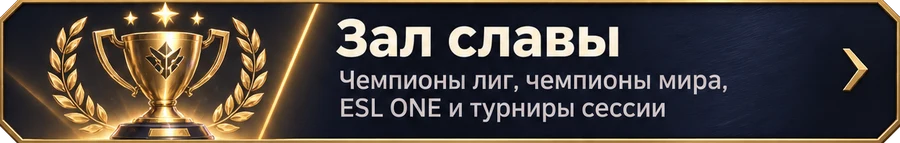
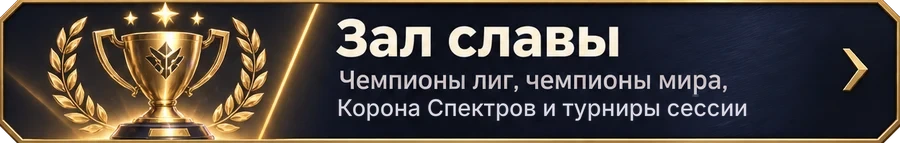
ESL ONE заменён на «Корону Спектров», логотипы — заглушки
Claude-Session: https://claude.ai/code/session_01BdoBrB8cx4HivwSUnJtpct

Changed region(s): [[0.3733, 0.6713, 0.84, 0.8671]]

diff --git a/index.html b/index.html
@@ -1321,7 +1321,7 @@ function fixHero(v) {   // старые сохранения героя
 }
 function loadGame(mode) {
   try {
-    const v = JSON.parse((localStorage.getItem(SKEY[mode]) || 'null').replace(/"(name|n|nick)":"120"/g, '"$1":"eer0120"'));   // боец 120 переименован в eer0120
+    const v = JSON.parse((localStorage.getItem(SKEY[mode]) || 'null').replace(/"(name|n|nick)":"120"/g, '"$1":"eer0120"').replace(/ESL ONE/g, 'Корона Спектров'));   // боец 120 переименован в eer0120
     if (!v) return null;
     if (v.v === 2 && v.nick) return { v: 3, mode: 'solo', players: [fixHero(v)], cur: 0, handoff: false };   // одиночная карьера до совместной игры
     if (v.v !== 3 || !v.players || !v.players.length) return null;
@@ -1549,7 +1549,7 @@ function ivQuestions(H) {
     last ? `Твой недавний бой с ${last} обсуждают до сих пор. Чем он запомнился?` : 'Какой соперник запомнился тебе больше всего?',
     'Кого из соперников ты считаешь самым неудобным?',
     `Идёт ${seasonNo()}-й сезон. Какую цель ставишь до его конца?`,
-    'Впереди ESL ONE. Готовишься бороться за очки рейтинга?',
+    'Впереди Корона Спектров. Готовишься бороться за очки рейтинга?',
     'Чемпионат мира в этом сезоне — мечта или реальная цель?',
     'Говорят, в Бюро скоро объявят новый турнир. Будешь участвовать?',
     team ? `Ты выступаешь за ${team.name}. Как тебе в команде?` : 'Ты пока свободный агент. За какую команду хочешь выступать?',
@@ -1989,7 +1989,7 @@ function bureauFight(kind) {
 }
 
 
-// ---------- ESL ONE: с силы 50, свой состав — Элитные Спектры любого региона, игроки, добор сгенерированными (сила ≤50) ----------
+// ---------- Корона Спектров (бывш. ESL ONE): с силы 50, свой состав — Элитные Спектры любого региона, игроки, добор сгенерированными (сила ≤50) ----------
 const ESL_MIN_POWER = 50, ESL_SIZES = { 8: 'se8', 12: 'g12', 16: 'g16', 20: 'sw20' };
 const eslElite = key => { const [r, k] = key.split(':').map(Number); return Object.assign({ r }, lgPool(r)[k]); };
 function eslNew() { S.esl = { size: 8, pick: [], inv: [], gen: [] }; }
@@ -2005,7 +2005,7 @@ function eslFill() {   // добрать сгенерированными — к
 function eslStart() {
   const E = S.esl; if (!E || eslCount() !== E.size) return;
   const cost = 1 + (E.inv.length ? 1 : 0);
-  if (S.actions < cost) { logMsg('Не хватает действий для ESL ONE.'); return; }
+  if (S.actions < cost) { logMsg('Не хватает действий для Короны Спектров.'); return; }
   S.actions -= cost;
   const hums = [G.cur, ...E.inv.filter(h => G.players[h] && G.players[h].region === S.region)];
   const bots = E.pick.map(eslElite).concat(E.gen);
@@ -2018,8 +2018,8 @@ function viewEsl() {
   if (!S.esl) eslNew();
   const E = S.esl, n = eslCount(), full = n === E.size, over = n > E.size;
   const here = G.players.map((H, i) => i).filter(i => i !== G.cur && G.players[i].region === S.region);
-  let h = `<div class="card"><img class="esllogo" src="img/esl.webp" alt="ESL ONE"><h2>ESL ONE</h2>
-    <div class="dim">Собери свой турнир: позови Элитных Спектров любого региона и игроков, остальное можно добрать бойцами с силой до 50. Турнир — 1 действие${here.length ? ', позвать игроков — ещё 1' : ''}. Победитель получает медаль ESL ONE и +200 рейтинга.</div>${prizeRulesHtml({ kind: 'esl' })}</div>
+  let h = `<div class="card"><img class="esllogo" src="img/crown.webp" alt="Корона Спектров"><h2>Корона Спектров</h2>
+    <div class="dim">Собери свой турнир: позови Элитных Спектров любого региона и игроков, остальное можно добрать бойцами с силой до 50. Турнир — 1 действие${here.length ? ', позвать игроков — ещё 1' : ''}. Победитель получает медаль Короны Спектров и +200 рейтинга.</div>${prizeRulesHtml({ kind: 'esl' })}</div>
     <div class="card"><h3>Размер турнира</h3><div class="row" style="flex-wrap:nowrap">${Object.keys(ESL_SIZES).map(k => `<button class="btn ${+k === E.size ? 'here' : ''}" style="text-align:center;margin-top:0" data-a="eslsize" data-v="${k}">${k}</button>`).join('')}</div>
       <div style="margin-top:8px">Участников: <b class="${over ? 'minus' : full ? 'plus' : ''}">${n} из ${E.size}</b>${over ? ' — убери лишних' : ''}</div>
       <div class="row" style="flex-wrap:nowrap"><button class="btn" data-a="eslfill" style="text-align:center" ${n >= E.size ? 'disabled' : ''}>Дозаполнить</button><button class="btn gold" data-a="eslgo" style="text-align:center" ${full ? '' : 'disabled'}>Начать турнир</button></div>
@@ -2253,7 +2253,7 @@ const BREAK_WEEKS = 10;   // перерыв после чемпионата ми
 const newSeason = (r, week, prev, brk) => ({ r, season: prev ? prev.season + 1 : 1, phase: 'draft', draftEnd: week + (brk || DRAFT_WEEKS) - 1, teams: null, M: [], sched: null, ri: 0, left: 0, champ: null, worlds: [] });
 const ensureLeagues = () => { if (!G.week) G.week = 1; if (!G.leagues) G.leagues = REGIONS.map((_, r) => newSeason(r, 1)); ensureFame(); };
 // ---------- зал славы: общий для всех игроков сессии ----------
-// чемпионы лиг (на старте — случайные Элитные Спектры), 3 последних чемпиона мира, 5 последних ESL ONE, все турниры сессии
+// чемпионы лиг (на старте — случайные Элитные Спектры), 3 последних чемпиона мира, 5 последних Корон Спектров, все турниры сессии
 function fameEntry(name, face, country, team, extra) { return Object.assign({ name, face, country: country || null, team: team || null, week: G.week || 1 }, extra || {}); }
 function ensureFame() {
   if (G.fame) return;
@@ -3038,11 +3038,11 @@ function finishTour() {
   }
   { ensureFame(); const x = R.ps[R.winner], h = humOf(R, R.winner), H = h != null ? G.players[h] : null;
     const team = x.team != null && SEMI[x.team] ? { name: SEMI[x.team][0], logo: SEMI[x.team][1] } : R.kind === 'contract' && H ? { name: SEMI[R.team][0], logo: SEMI[R.team][1] } : null;
-    const nm = R.kind === 'fest' ? 'Фестиваль Спектров' : R.kind === 'esl' ? 'ESL ONE' : R.kind === 'dh' ? 'Метеор Фест' : R.kind === 'contract' ? 'Турнир по контракту' : TIERS[R.tier].name;
+    const nm = R.kind === 'fest' ? 'Фестиваль Спектров' : R.kind === 'esl' ? 'Корона Спектров' : R.kind === 'dh' ? 'Метеор Фест' : R.kind === 'contract' ? 'Турнир по контракту' : TIERS[R.tier].name;
     const e = fameEntry(H ? H.nick : x.name, H ? H.face : x.face, H ? H.country : x.country, team, { r: R.region, season: fameSeason(), hum: !!H, t: nm });
     if (R.kind === 'esl') { G.fame.esl.unshift(e); G.fame.esl = G.fame.esl.slice(0, 5); }
     G.fame.tours.unshift(e); G.fame.tours = G.fame.tours.slice(0, 30); }
-  const T = R.kind === 'fest' ? { name: 'Фестиваль Спектров · ' + R.city, gain: 0 } : R.kind === 'esl' ? { name: 'ESL ONE', gain: 0 } : R.kind === 'contract' ? { name: 'Турнир по контракту · ' + SEMI_TEAMS[R.team], gain: 0 } : R.kind === 'dh' ? { name: 'Метеор Фест' + (R.city ? ' · ' + R.city : ''), gain: 0 } : TIERS[R.tier], r = R.region, champ = R.ps[R.winner].name;
+  const T = R.kind === 'fest' ? { name: 'Фестиваль Спектров · ' + R.city, gain: 0 } : R.kind === 'esl' ? { name: 'Корона Спектров', gain: 0 } : R.kind === 'contract' ? { name: 'Турнир по контракту · ' + SEMI_TEAMS[R.team], gain: 0 } : R.kind === 'dh' ? { name: 'Метеор Фест' + (R.city ? ' · ' + R.city : ''), gain: 0 } : TIERS[R.tier], r = R.region, champ = R.ps[R.winner].name;
   for (const x of R.ps) {   // награды и история — каждому живому участнику
     const h = humOf(R, x.id); if (h == null) continue;
     const H = G.players[h];
@@ -3058,7 +3058,7 @@ function finishTour() {
         : awardTrophy(H, r, T.name);
       if (tr === 'dh') msg += ' Ты достиг вершины силы!';
       msg += ' ' + payPrize(R, x, H, 'W');
-      msg += tr === 'contract' ? '' : tr === 'esl' ? ` +200 рейтинга и медаль ESL ONE (всего ×${H.eslWins}).` : tr === 'new' ? ' Кубок в коллекции!' : tr === 'locked' ? ' Кубки можно собирать, когда прокачка завершена.' : '';
+      msg += tr === 'contract' ? '' : tr === 'esl' ? ` +200 рейтинга и медаль Короны Спектров (всего ×${H.eslWins}).` : tr === 'new' ? ' Кубок в коллекции!' : tr === 'locked' ? ' Кубки можно собирать, когда прокачка завершена.' : '';
       histTo(H, r, T.name + ' · победа'); logTo(H, msg);
     } else { histTo(H, r, T.name + ' · ' + placeText(R, x.id));
       const o = R.outs && R.outs[x.id];
@@ -3108,7 +3108,7 @@ const topBar = () => {   // шапка по макету: портрет, ник
 
 // строка раздела под шапкой: стрелка назад и название экрана (заменяет нижние кнопки «Назад»)
 const VIEW_TITLE = { club: ['Бойцовский клуб', 'back'], card: ['Действие', 'back'], cardres: ['Итог', 'cardback'], more: ['Ещё', 'back'], coll: ['Коллекция', 'more'], cup: ['Трофей', 'coll'], fame: ['Зал славы', 'fameback'], lib: ['Библиотека', 'back'], dossier: ['Досье Элитных Спектров', 'back'], teams: ['Команды лиг', 'back'], rest: ['Отдых', 'back'],
-  bureau: ['Бюро', 'back'], tour: ['Турниры', 'toBureau'], esl: ['ESL ONE', 'toBureau'], wc: ['Wild Card', 'toBureau'], wf: ['Чемпионат мира', 'toBureau'],
+  bureau: ['Бюро', 'back'], tour: ['Турниры', 'toBureau'], esl: ['Корона Спектров', 'toBureau'], wc: ['Wild Card', 'toBureau'], wf: ['Чемпионат мира', 'toBureau'],
   ltable: ['Таблица лиги', 'lback'], lhist: ['История лиги', 'lback'], flight: ['Перелёт', 'back'], shop: ['Магазин', 'back'], inv: ['Инвентарь', 'more'], weeks: ['История недель', 'more'] };
 const subBar = () => { const t = VIEW_TITLE[S.view]; return t ? `<div class="sub"><button class="subback" data-a="${t[1]}" aria-label="Назад">←</button><h1>${t[0]}</h1></div>` : ''; };
 const labelOf = c => {
@@ -3132,7 +3132,7 @@ const trophiesHtml = () => {   // коллекция: трофеи лиг кар
   const names = [...TIERS.map(t => t.name), 'Кубок лиги'], lbl = [...TIER_SHORT, 'Лига'];
   const big = [S.wfWon ? `<div class="ctro big" data-a="cupview" style="cursor:pointer">${wfCup(S)}<span>Чемпион мира${S.wfWon > 1 ? ' ×' + S.wfWon : ''}</span></div>` : '',
     S.wcWon ? `<div class="ctro big"><img src="img/trophy/wc.webp" alt=""><span>Wild Card${S.wcWon > 1 ? ' ×' + S.wcWon : ''}</span></div>` : '',
-    S.eslWins ? `<div class="ctro big"><img class="esl" src="img/esl.webp" alt=""><span>ESL ONE ×${S.eslWins}</span></div>` : '',
+    S.eslWins ? `<div class="ctro big"><img class="esl" src="img/crown.webp" alt=""><span>Корона Спектров ×${S.eslWins}</span></div>` : '',
     ...CLUB.map((B, k) => S.beltsWon && S.beltsWon[k] ? `<div class="ctro big"><img src="img/trophy/belt_${k}.webp" alt="" onerror="this.replaceWith(Object.assign(document.createElement('span'),{className:'beltph',textContent:'Пояс'}))"><span>${B.n}${S.beltsWon[k] > 1 ? ' ×' + S.beltsWon[k] : ''}</span></div>` : '')].join('');
   const regs = REGIONS.map((R, r) => { const own = names.map((n, i) => S.troph.some(x => x.r === r && x.n === n) ? i : -1).filter(i => i >= 0);
     return own.length ? `<h3>${esc(R.name)} · ${LSHORT[r]}</h3><div class="ctrow">${own.map(i => `<div class="ctro">${TROPHY_IMG[r] ? `<img src="img/trophy/r${r}_${i}.webp" alt="">` : '<span class="trophy">🏆</span>'}<span>${lbl[i]}</span></div>`).join('')}</div>` : ''; }).join('');
@@ -3559,7 +3559,7 @@ const LIB_NOTES = [
   { t: "Борьба команд", d: "Команды сражаются за места в таблице не ради красоты. За победы корпорации платят крипту: из неё оплачиваются контракты, тренировки, переезды и экипировка. Чем выше команда, тем щедрее спонсоры." },
   { t: "Цифровая монета", d: "Крипта Спектров — цифровая монета. Её выпускает банк «Северный Альянс», а каждую сделку записывает распределённый реестр, который проверяет Бюро. Курс крипты растёт вместе со славой арены." },
   { t: "Кошелёк Спектра", d: "Рейтинг и крипта — разные вещи. Рейтинг показывает, кто сильнее: он растёт и падает от побед и поражений, его нельзя купить или потратить. Крипта — это деньги: её платят за победы, призовые места и контракты, а тратят в магазине на жильё, транспорт, артефакты и снаряжение." },
-  { t: "Призовой фонд ESL ONE", d: "ESL ONE — турнир, на котором организаторы разыгрывают очки рейтинга. Победитель получает щедрую долю общего фонда, а вместе с ней — внимание скаутов и корпораций. Поэтому за приглашение на ESL ONE Спектры готовы бороться не меньше, чем за сам титул." },
+  { t: "Призовой фонд Короны Спектров", d: "Корона Спектров — турнир, на котором организаторы разыгрывают очки рейтинга. Победитель получает щедрую долю общего фонда, а вместе с ней — внимание скаутов и корпораций. Поэтому за приглашение на Корону бойцы готовы бороться не меньше, чем за сам титул." },
   { t: "Разрыв потока", d: "Иногда, не справившись со своей силой, Спектр может потерять контроль над потоком Цы. Потеря контроля делает Спектра совершенно беззащитным. Урон от двух своих атак получает тот, у кого получилось нанести три крита подряд." },
   { t: "Veltor", img: "img/car/veltor_logo.webp", d: "Veltor — самый массовый автобренд мира Спектров. Его серебряную букву V с бирюзовой вставкой видно на каждой улице. Седан Veltor S4 — первая машина почти любого молодого Спектра: удобный, экономичный и достаточно быстрый, чтобы успеть из Бюро на арену. Бирюзовые огни на бампере светятся в цвет потока Цы." },
   { t: "Свой транспорт", d: "Спектр, который сам добирается до арены, успевает за неделю куда больше. Машина в гараже дарит одно лишнее действие каждую неделю: меньше времени в пробках и на такси — больше на тренировки, турниры и Бюро." },
@@ -3687,7 +3687,7 @@ function viewBureau() {   // слева — бюро и услуги, справ
       <div class="dim" style="margin-top:8px">Всемирная организация Спектров: турниры, поединки и рейтинговая система.</div></div>
     <div class="card"><h2>Услуги бюро</h2>
       ${[['tour', '', 's_tour', 'Местный турнир'], ['fight', 'ladder', 's_ladder', 'Лестничный матч'], ['fight', 'pro', 's_pro', 'Бой с Элитным Спектром']].map(([a, v, img, t]) => `<button class="imgbtn" data-a="${a}" ${v ? `data-v="${v}"` : ''} ${none ? 'disabled' : ''} aria-label="${t}"><img src="img/nav/${img}.webp" alt=""></button>`).join('')}${none ? '<div class="dim" style="margin-top:4px;font-size:13px">Действия на неделю закончились.</div>' : ''}
-      ${esl ? `<button class="imgbtn" data-a="esl" ${none ? 'disabled' : ''} aria-label="ESL ONE"><img src="img/nav/esl.webp" alt=""></button>` : '<div class="imgbtn locked" aria-label="ESL ONE закрыт"><img src="img/nav/s_esl_lock.webp" alt=""></div>'}
+      ${esl ? `<button class="imgbtn" data-a="esl" ${none ? 'disabled' : ''} aria-label="Корона Спектров"><img src="img/nav/crown.webp" alt=""></button>` : '<div class="imgbtn locked" aria-label="Корона Спектров закрыта"><img src="img/nav/s_crown_lock.webp" alt=""></div>'}
     </div>
     <div class="card"><button class="imgbtn" data-a="famebu" aria-label="Зал славы" style="margin-top:0"><img src="img/nav/fame.webp" alt=""></button></div></div>
     <div class="bright">${(() => { const r = S.blg != null ? S.blg : S.region; return `<div class="card blgtabs"><div class="row" style="flex-wrap:nowrap;gap:4px;margin:0">${REGIONS.map((R, i) => `<button class="blgb ${i === r ? 'on' : ''}" data-a="blg" data-v="${i}" aria-label="${LSHORT[i]}" title="${LSHORT[i]}"><img src="img/logo_${i}.webp" alt=""></button>`).join('')}</div></div>` + lgCardHtml(r); })()}${wcCardHtml()}${wfCardHtml()}</div></div>`);
@@ -3703,7 +3703,7 @@ function viewFame() {
     <div class="fcol">
     <div class="card"><h2>Пояса Бойцовского клуба</h2>${(ensureBelts(), CLUB.map((B, k) => { const hd = beltHolder(k); return `<div class="famebelt"><img src="img/trophy/belt_${k}.webp" alt=""><span>${B.n}</span></div>${row({ name: hd.name, face: hd.face, country: hd.country, hum: hd.hum }, G.belts[k].since ? 'чемпион с недели ' + G.belts[k].since + (G.belts[k].def ? ' · защит: ' + G.belts[k].def : '') : 'до начала карьеры')}`; }).join(''))}</div>
     <div class="card"><h2>Чемпионы мира</h2>${F2.worlds.map((e, i) => row(e, (i === 0 ? 'Действующий чемпион · ' : '') + (e.team ? esc(e.team.name) + ' · ' : '') + ss(e))).join('')}</div>
-    <div class="card"><h2>ESL ONE · последние 5</h2>${F2.esl.map(e => row(e, e.season > 0 ? 'Неделя ' + e.week + ' · ' + ss(e) : ss(e))).join('')}</div>
+    <div class="card"><h2>Корона Спектров · последние 5</h2>${F2.esl.map(e => row(e, e.season > 0 ? 'Неделя ' + e.week + ' · ' + ss(e) : ss(e))).join('')}</div>
     <div class="card"><h2>Турниры сессии</h2>${F2.tours.length ? F2.tours.map(e => row(e, esc(e.t) + ' · ' + REGIONS[e.r].name + ' · неделя ' + e.week)).join('') : '<div class="dim">Пока ни одного турнира. Победители всех турниров, сыгранных в этой игре, появятся здесь.</div>'}</div>
     </div></div>`) + navBar();
 }
@@ -3918,7 +3918,7 @@ function viewTRun() {
   const sc = m => { const wa = m.g.filter(x => x === m.a).length; return [wa, m.g.length - wa]; };
   const series = m => { const [wa, wb] = sc(m); return `<div class="ser ${isHum(R, m.a) || isHum(R, m.b) ? 'mine' : ''}"><span class="${m.w === m.a ? 'win' : ''}">${nm(m.a)}</span><b class="ssc">${wa}:${wb}</b><span class="${m.w === m.b ? 'win' : ''}">${nm(m.b)}</span></div>`; };
   const tab = S.ttab || (R.groups || R.fmt === 'sw20' || R.fmt === 'dh32' ? 'groups' : 'bracket');
-  let h = `<div class="card thead">${R.kind === 'club' ? `<h2>Бойцовский клуб · ${CLUB[R.belt].n}</h2><div class="gold">Чемпион: ${esc(beltName(holderEntry(R.belt)))} · победитель турнира — претендент</div>` : R.kind === 'fest' ? `${evtImg({ t: 'Фестиваль Спектров', k: 'fest' })}<h2>Фестиваль Спектров</h2><div class="gold">${esc(R.city || '')}</div>` : R.kind === 'contract' ? `<div class="ctteams">${R.teams.map(t => `<img src="img/team/${SEMI[t][1]}.webp" alt="${SEMI_TEAMS[t]}" class="${t === R.team ? 'my' : ''}">`).join('')}</div><h2>Турнир по контракту</h2><div class="gold">Ты играешь за ${SEMI_TEAMS[R.team]}</div>` : R.kind === 'dh' ? `<img class="scene" src="img/dreamhack.webp" alt="Метеор Фест"><h2>Метеор Фест</h2>${R.city ? `<div class="gold">${esc(R.city)}</div>` : ''}<p class="dim" style="margin:6px 0 0">${esc(descOf({ k: 'dh', city: R.city }))}</p>` : R.kind === 'esl' ? '<img class="esllogo" src="img/esl.webp" alt=""><h2>ESL ONE · ' + f.name.replace('Турнир на ', '') + '</h2>' : `<img class="scene" src="img/tier_${R.tier}.webp" alt=""><h2>${R.tier === 2 ? 'Турнир на 32 бойца' : f.name}</h2>`}
+  let h = `<div class="card thead">${R.kind === 'club' ? `<h2>Бойцовский клуб · ${CLUB[R.belt].n}</h2><div class="gold">Чемпион: ${esc(beltName(holderEntry(R.belt)))} · победитель турнира — претендент</div>` : R.kind === 'fest' ? `${evtImg({ t: 'Фестиваль Спектров', k: 'fest' })}<h2>Фестиваль Спектров</h2><div class="gold">${esc(R.city || '')}</div>` : R.kind === 'contract' ? `<div class="ctteams">${R.teams.map(t => `<img src="img/team/${SEMI[t][1]}.webp" alt="${SEMI_TEAMS[t]}" class="${t === R.team ? 'my' : ''}">`).join('')}</div><h2>Турнир по контракту</h2><div class="gold">Ты играешь за ${SEMI_TEAMS[R.team]}</div>` : R.kind === 'dh' ? `<img class="scene" src="img/dreamhack.webp" alt="Метеор Фест"><h2>Метеор Фест</h2>${R.city ? `<div class="gold">${esc(R.city)}</div>` : ''}<p class="dim" style="margin:6px 0 0">${esc(descOf({ k: 'dh', city: R.city }))}</p>` : R.kind === 'esl' ? '<img class="esllogo" src="img/crown.webp" alt=""><h2>Корона Спектров · ' + f.name.replace('Турнир на ', '') + '</h2>' : `<img class="scene" src="img/tier_${R.tier}.webp" alt=""><h2>${R.tier === 2 ? 'Турнир на 32 бойца' : f.name}</h2>`}
     ${hums.filter(x => x.team != null).map(x => `<div class="semipick">${teamTag(x)}<span>${hums.length > 1 ? esc(x.name) + ' выступает' : 'Ты выступаешь'} за <b>${esc(SEMI_TEAMS[x.team])}</b> · бонус к силе</span></div>`).join('')}
     ${R.tier === 2 ? '<div class="dim" style="margin-top:6px">${new Set(R.ps.filter(x => x.team != null).map(x => x.team)).size} полупрофессиональных команд выставили по бойцу.</div>' : ''}
     <div style="margin-top:8px">Стадия: <b>${R.done ? 'турнир завершён' : stageName(R.stage)}</b></div>
@@ -3927,7 +3927,7 @@ function viewTRun() {
   if (R.done) {
     const won = isHum(R, R.winner), solo = hums.length === 1;
     h += `<div class="card" style="text-align:center"><img class="tendimg" src="img/win/${won ? 'twin' : 'tlose'}.webp" alt=""><div class="bonus ${won ? 'plus' : 'minus'}" style="font-size:22px;margin:0">${won ? (solo ? 'Ты выиграл турнир!' : esc(R.ps[R.winner].name) + ' выиграл турнир!') : 'Турнир окончен'}</div>
-      <div class="dim" style="margin-top:6px">${solo ? (won ? (R.kind === 'fest' ? 'Кубок фестиваля твой — друзья в автобусе уже поют.' : R.intro ? `Бюро выдаёт стартовую крипту: ${coinHtml(INTRO_COINS)}. Дальше — твоя первая неделя.` : R.kind === 'dh' ? 'Ты чемпион Метеор Феста!' : R.kind === 'contract' ? `+${CONTRACT_WIN} крипты, команда довольна.` : R.kind === 'esl' ? 'Медаль ESL ONE в коллекции.' : 'Трофей отправится в коллекцию.') : 'Твой результат: ' + placeText(R, hums[0].id) + '. Победитель — ' + esc(R.ps[R.winner].name) + '.')
+      <div class="dim" style="margin-top:6px">${solo ? (won ? (R.kind === 'fest' ? 'Кубок фестиваля твой — друзья в автобусе уже поют.' : R.intro ? `Бюро выдаёт стартовую крипту: ${coinHtml(INTRO_COINS)}. Дальше — твоя первая неделя.` : R.kind === 'dh' ? 'Ты чемпион Метеор Феста!' : R.kind === 'contract' ? `+${CONTRACT_WIN} крипты, команда довольна.` : R.kind === 'esl' ? 'Медаль Короны Спектров в коллекции.' : 'Трофей отправится в коллекцию.') : 'Твой результат: ' + placeText(R, hums[0].id) + '. Победитель — ' + esc(R.ps[R.winner].name) + '.')
         : 'Победитель — ' + esc(R.ps[R.winner].name) + '.<br>' + hums.map(x => esc(x.name) + ': ' + placeText(R, x.id)).join('<br>')}</div>
       <div class="tendq">${esc(R.endq || (R.endq = ivPick(won ? T_WIN_Q : T_LOSE_Q)))}</div>
       <button class="imgbtn" data-a="tfinish" aria-label="Завершить"><img src="img/nav/finish.webp" alt=""></button></div>`;

diff --git a/sw.js b/sw.js
@@ -1,5 +1,5 @@
 // Установка как приложения и офлайн: сначала сеть (чтобы приходили обновления), без сети — сохранённая копия.
-const CACHE = 'spektr-v70';
+const CACHE = 'spektr-v71';
 const FILES = ['./', './index.html', './manifest.webmanifest', './icon-192.png', './icon-512.png', './icon-mask.png', './icon-180.png'];
 self.addEventListener('install', e => { e.waitUntil(caches.open(CACHE).then(c => c.addAll(FILES))); self.skipWaiting(); });
 self.addEventListener('activate', e => { e.waitUntil(caches.keys().then(ks => Promise.all(ks.filter(k => k !== CACHE).map(k => caches.delete(k))))); self.clients.claim(); });
